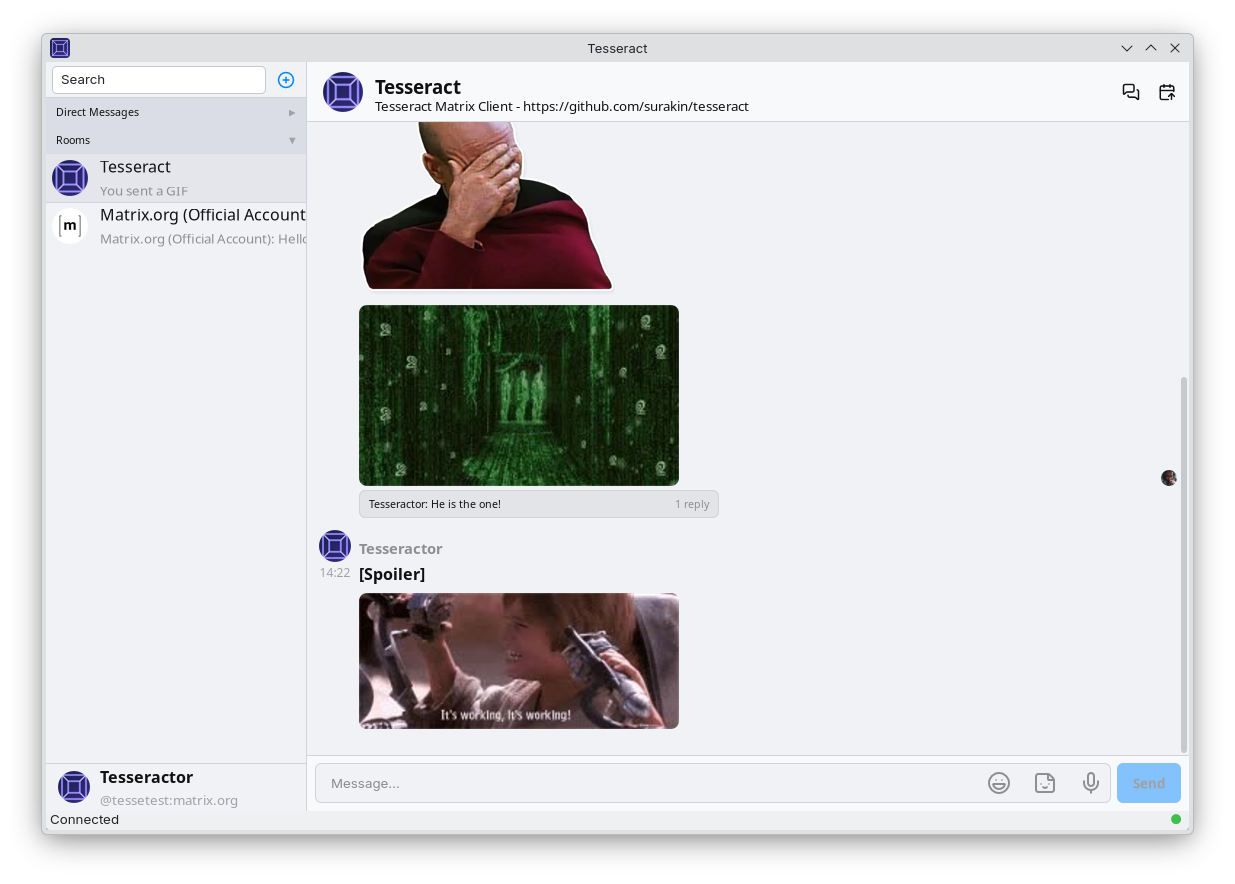
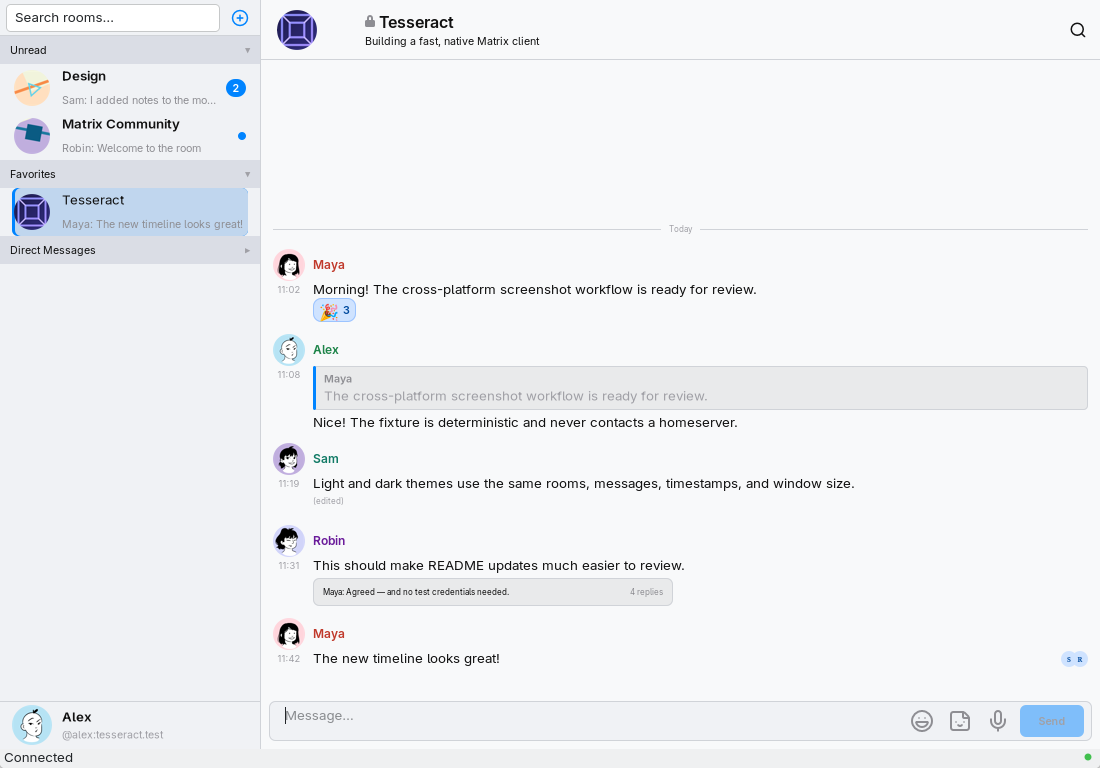
docs: refresh cross-platform screenshots
Replace the Qt6, GTK4, Windows, and macOS light/dark screenshots with the deterministic fixture captures.

Use the Qt6 light-theme capture as the README hero image and add credits for the embedded fixture avatar artwork.

Changed region(s): [[0.0, 0.0, 0.9891, 1.0], [0.9891, 0.9688, 1.0, 1.0]]

diff --git a/README.md b/README.md
@@ -4,7 +4,7 @@
 
 (If you don't know what Matrix is - not THE matrix, unfortunately, no one can be told what that is - go [here](https://matrix.org/) before reading forward)
 
-![Brand new account (Qt6)](./screenshots/brand-new-account-small.png)
+![Tesseract Qt6 light theme](./screenshots/qt6-light.png)
 
 A full featured desktop multiplatform (Linux, Windows, Mac) Matrix client built on the [Matrix Rust SDK](https://github.com/matrix-org/matrix-rust-sdk)
 
@@ -178,6 +178,8 @@ If you don't care about UI parity or are interested in only one platform, you're
 First of all, big kudos to the Matrix.org foundation and all their awesome people! And Anthropic, for Claude. It's been interesting, to say the least.
 
 Tesseract stands on the work of many open-source projects.
+
+The screenshot fixture's user avatars are generated from [Lorelei](https://www.figma.com/community/file/1198749693280469639) by Lisa Wischofsky, and its room avatars use [DiceBear Shapes](https://www.dicebear.com/styles/shapes/). Both avatar sets are available under [CC0 1.0](https://creativecommons.org/publicdomain/zero/1.0/).
 
 | Library | Purpose | Author / Maintainer |
 | --- | --- | --- |
